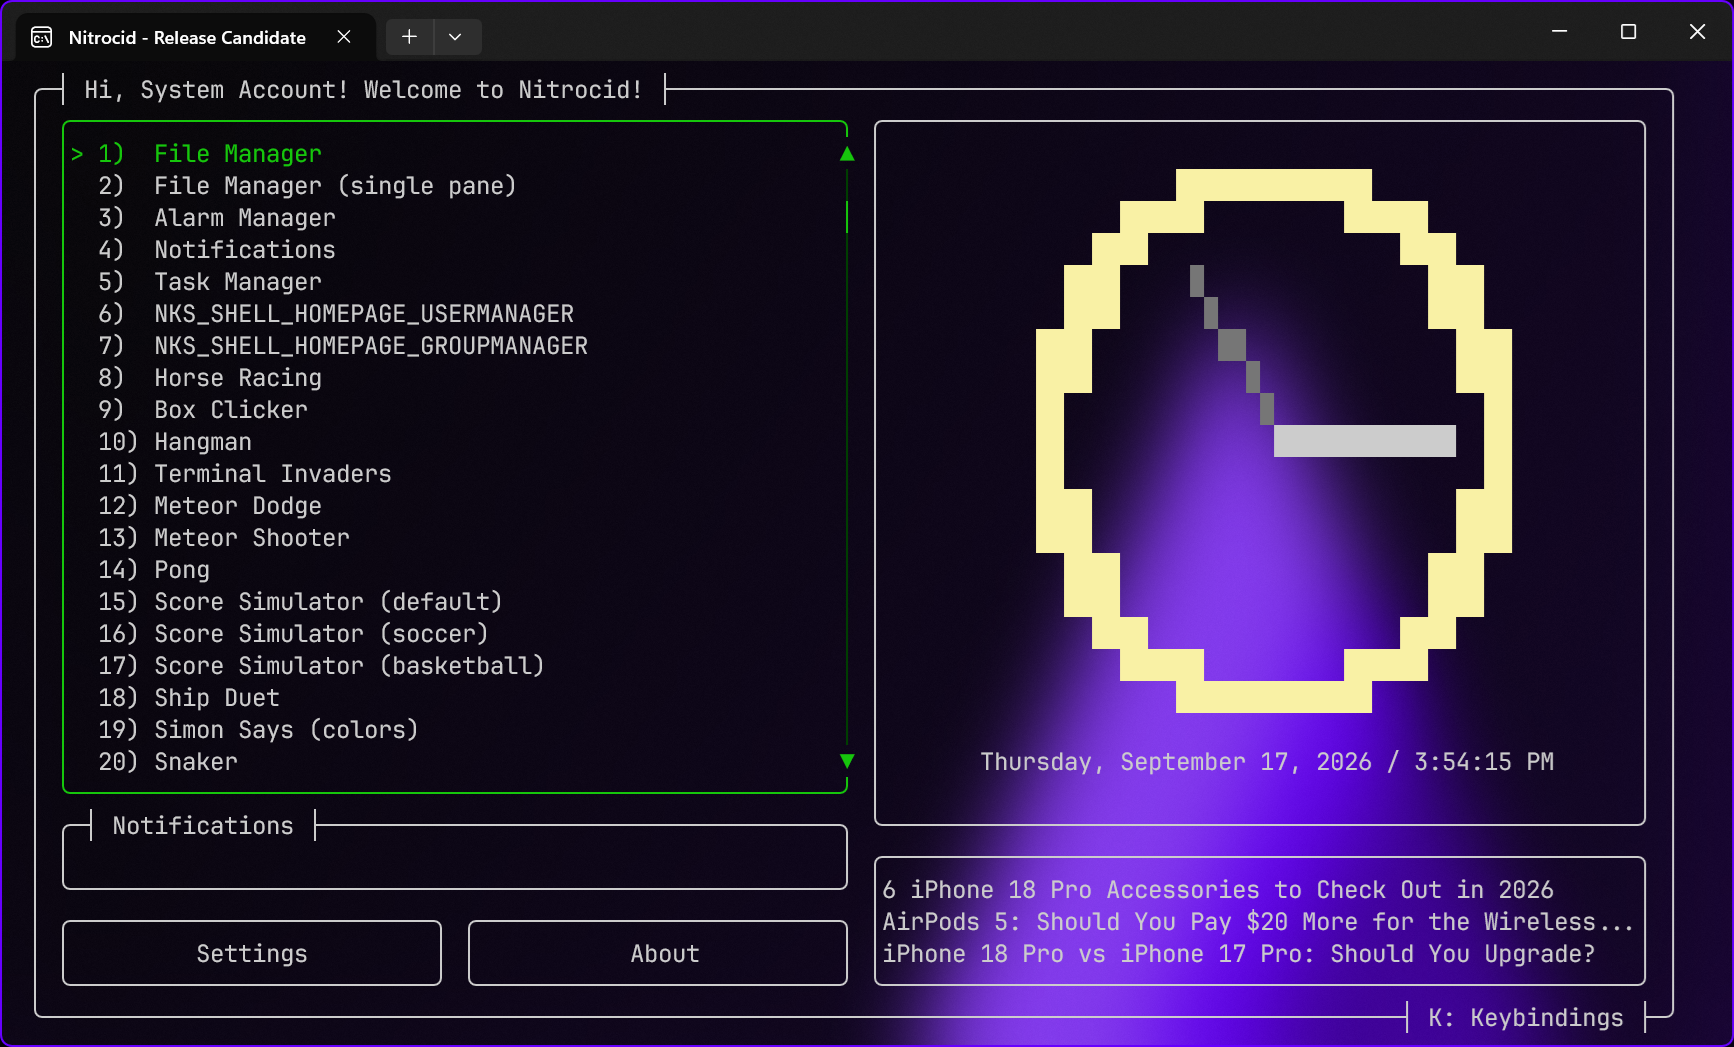
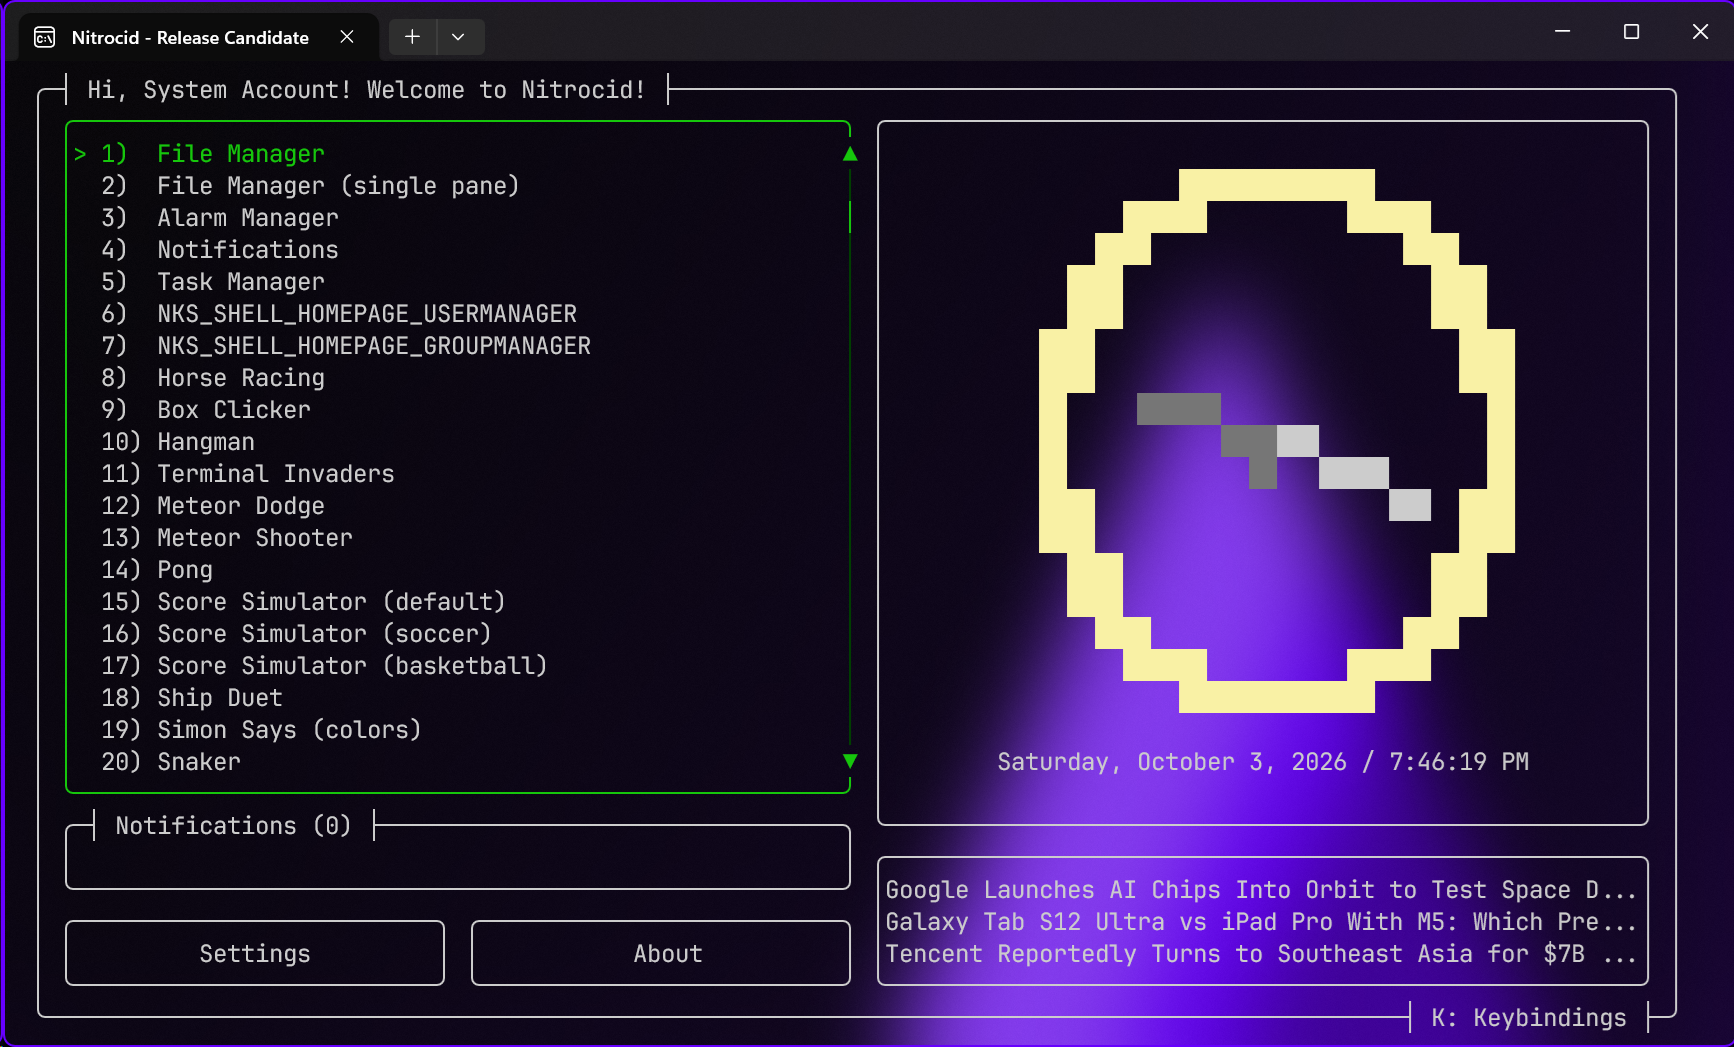
add - Added Nitrocid 0.2.1 RC announcement
---

Added article about the release of Nitrocid 0.2.1 Release Candidate that is
available for download

---

Type: add
Breaking: No
Doc Required: No
Backport Required: No
AI Assisted: No
Part: 1/1

diff --git a/content/press/0045-nitrocid-0-2-1-release-candidate-flaming-speed.md b/content/press/0045-nitrocid-0-2-1-release-candidate-flaming-speed.md
@@ -1,0 +1,65 @@
++++
+date = '2026-10-08T13:35:10+03:00'
+title = 'Nitrocid 0.2.1 Release Candidate - Flaming Speed'
++++
+
+Since Nitrocid 0.1.0 was released in March 2024, we started working on polishing the simulated operating system by making it easier to use and accessible to many people. We've been making interactive textual user interfaces to achieve this goal, and one of the efforts is The Nitrocid Homepage, which allows you to launch applications without having to remember the command itself. Earlier, Nitrocid only focused on command-line apps, with some interactive TUIs that could only be launched by a command.
+
+Nitrocid 0.2.0 brought many new features that we've introduced to make it easier to use the simulated operating system, including the enhanced and customizable homescreen and lockscreen, to give you more options for personalization. This version has also brought performance-related improvements, as well as promising ones that will make it easier for you to use Nitrocid. Two-factor authentication, Chatbot AI, Widget Canvas API, and other new features were introduced to increase your productivity and to give you many customization options.
+
+The upcoming version of Nitrocid has seen a tech preview that allowed you to see the basic architecture of how this version would technically work, such as changes to the API and restructuring, as well as several updates to Terminaux. Since the release of the tech preview, we were working on adding new features while making promising improvements, such as fixing design issues and long-term bugs. This release candidate is powered by the new [Aptivi Development Toolkit](/newsroom/press/0035-aptivi-development-toolkit-application) that allows easier building with a variety of scripts, written in Python.
+
+We have reached the stage where we are now ready to announce the huge milestone of Nitrocid 0.2.1, and this isn't an ordinary one.
+
+## Nitrocid 0.2.1 RC - Flaming Speed
+
+![Showcase](/newsroom/images/nitrocid-0.2.1-rc/001.png)
+
+Nitrocid 0.2.1 Release Candidate shapes the foundation of what will eventually be the final version of Nitrocid 0.2.1 expected to be released **November 5th**.
+
+### Improved The Nitrocid Homepage
+
+You can now have a more fluid experience with The Nitrocid Homepage! You won't have to wait until all the RSS feeds load successfully, but you can navigate the homepage while the RSS feeds are still loading. This is part of our commitment to make sure that Nitrocid keeps running smoothly, with many bug fixes to be done across different parts of the kernel. Since the homepage was first introduced in 0.1.1, we were working hard to make it smoother and more fluid, with such improvements.
+
+This improves user experience for those who have an unstable connection or no internet connection. Such users can benefit from this performance improvement.
+
+We've also added consistent scrolling experience to scroll through tens of options, including the arrow buttons that move the highlighted choice up or down by a single click. Mouse wheel can now scroll through options quicker, while you can double-click on an item to open it. The notifications count can also be seen at a glance, so that you can see how many notifications waiting for you to read. Clicking on it allows you to get a list of notifications in a separate TUI.
+
+### Multiple feeds in RSS TUI
+
+![RSS TUI](/newsroom/images/nitrocid-0.2.1-rc/002.png)
+
+Earlier, the textual user interface for the RSS reader was very limited and only supported a single feed source, while listing available articles to read. Also, it didn't allow more than a single feed to be added, and the only thing you were allowed to do was to read articles.
+
+Starting from 0.2.1, the RSS TUI has gained multiple advantages, including the ability to read articles from more than one RSS feed. You can add more than a single feed by a single keypress and a URL, and the RSS TUI will do the rest of the work. This way, you'll be able to get access to articles from different sites without having to exit the TUI.
+
+We've not only added a feature where you can refresh a single feed that was chosen to get the latest articles, but you can also refresh all feeds to get more up-to-date news, especially for tech news, from all the feeds. Just add an RSS feed link to the RSS TUI, such as [`https://officialaptivi.wordpress.com/feed`](https://officialaptivi.wordpress.com/feed), and the TUI will do the rest.
+
+### POP mail is back!
+
+![RSS TUI](/newsroom/images/nitrocid-0.2.1-rc/003.png)
+
+In an earlier version of Nitrocid when we were still in early access, we removed POP mail as it caused Nitrocid to be unusable in ARM systems, but that was back when we supported Mono installations in Linux systems. As we took that out in Nitrocid 0.1.0 as part of modernization process, we wanted to bring POP mail back. However, due to unexpected events that happened, we weren't able to incorporate it to feature releases of Nitrocid.
+
+Now, we are so happy to announce that you can finally use POP mail! You can use your e-mail address to sign in to your mailbox using the POP3 protocol instead of IMAP and to read messages, as well as sending them in both encrypted and unencrypted formats.
+
+You can use the `popmail` command to get started. Just enter your username and your password (or your application password in some providers like Gmail), and you'll be able to check your messages with this protocol. This works separately from the IMAP mail shell, which is the default protocol when you use `mail`.
+
+## Availability
+
+Nitrocid 0.2.1 RC is now available, starting **October 8th**, on the following platforms:
+
+  * WinGet (Windows)
+  * Chocolatey (Windows)
+  * Arch Linux AUR (Linux)
+  * Launchpad PPA (Linux, Ubuntu only)
+  * Manual download (Windows, macOS, Linux, FreeBSD)
+
+To install Nitrocid 0.2.1 RC, or to upgrade from 0.2.1 Tech Preview or 0.2.0, visit [this manual page](https://aptivi.gitbook.io/aptivi/nitrocid-ks-manual/installation-and-maintenance/installing-the-kernel) for platform-specific instructions.
+
+For mod developers, the NuGet package will be available on the official NuGet.org repository under the following versions:
+
+  * Nitrocid.Base (`0.2.1-rc`)
+  * Nitrocid.Core (`0.2.1-rc`)
+
+For installation instructions, visit [this manual page](https://aptivi.gitbook.io/aptivi/csharp-libraries/installation-and-upgrade) to install or upgrade Nitrocid NuGet packages.
